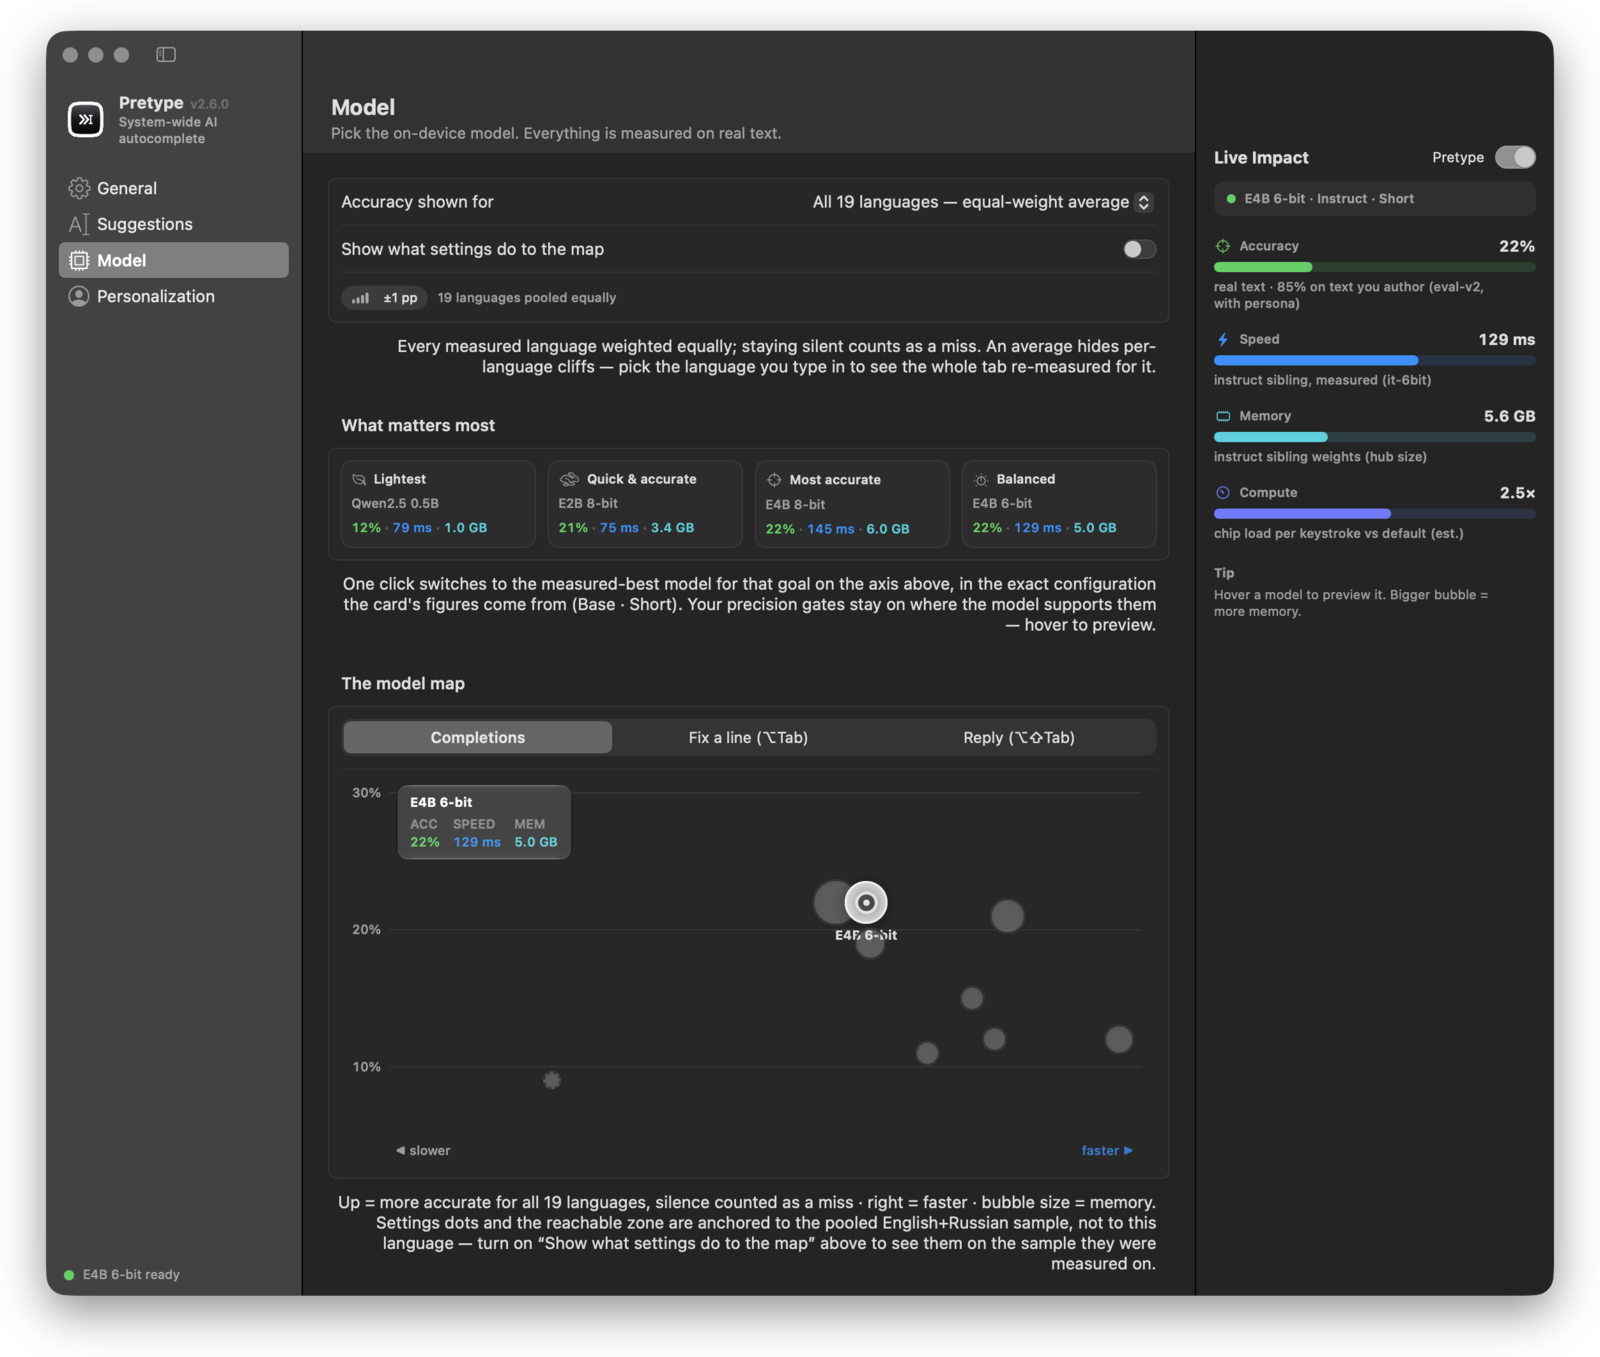
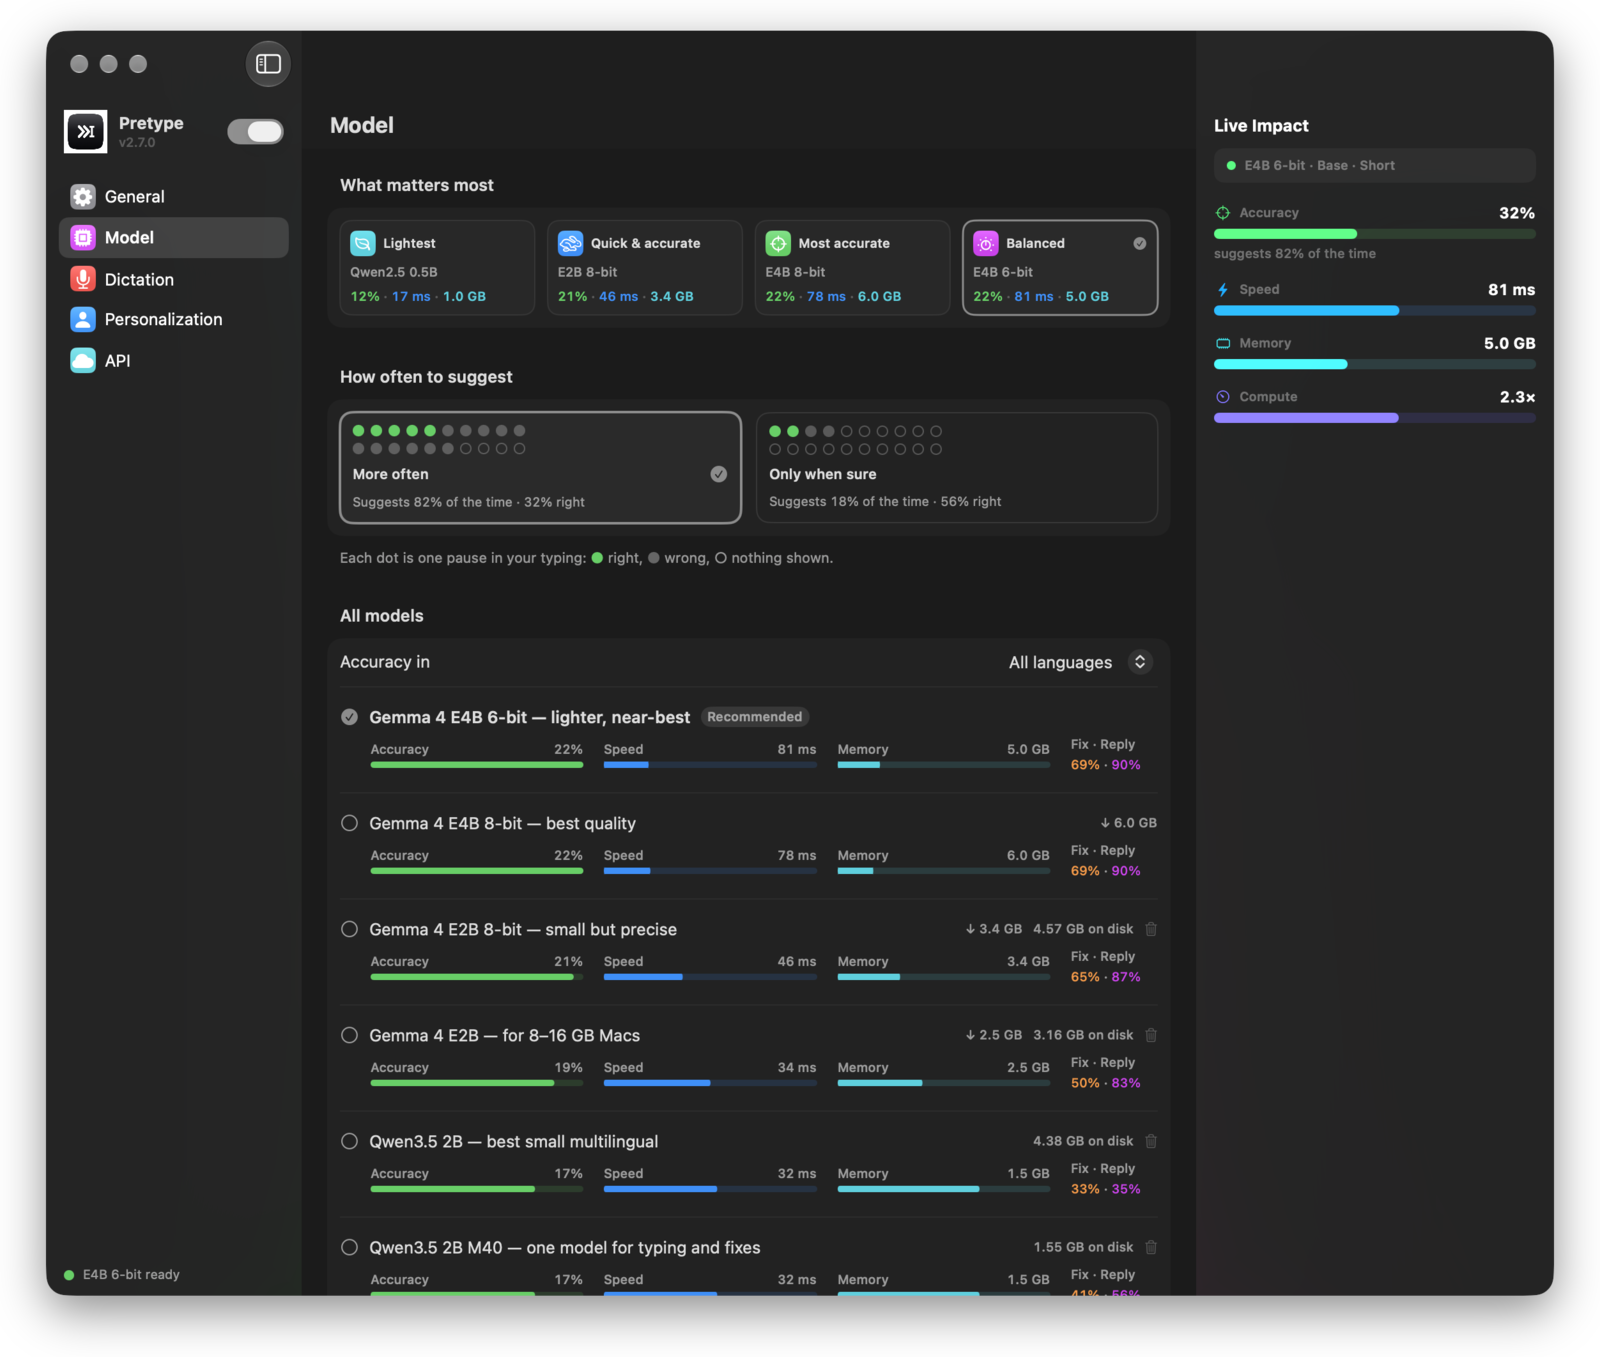
docs: Settings paths and screenshots for the new layout
The docs name the new paths: Settings → Dictation, Model → How often to
suggest, Personalization → Advanced. The screenshots are taken again
from the new layout.

diff --git a/docs/privacy.md b/docs/privacy.md
@@ -28,7 +28,7 @@ Do not trust this page without proof. These files read your input or type text b
 | **Network** | By default, only downloads and one version check. No request contains your text. See [Network requests](#network-requests). |
 | **Accessibility** *(required)* | Pretype uses it to read the focused field, catch the accept key, and type text back. Pretype cannot do this without it. On macOS 27, this permission has the name **Device Control and Data Access**. See [Websites](#websites). |
 | **Screen Recording** *(optional, off)* | Pretype uses it for two things:<br>1. On-screen OCR context, only for the focused window, and only if you turn on screen context.<br>2. The brightness beside the caret. When Pretype shows text at the caret, it captures a strip of the screen to the right of the caret. It reduces the capture to 8 × 4 pixels, and then to one brightness value. It uses this value to select dark or light text. It does not capture its own windows. It keeps no image. This occurs when the permission is granted, also with screen context off.<br>The debug log does not contain OCR text or clipboard contents. An exported log shows a character count in their place, never the text. |
-| **Clipboard** *(optional, off)* | Only if you turn on **Settings → General → Use clipboard context**. When the clipboard changes, Pretype reads its text and keeps the first 600 characters in memory. It adds them to the prompt. See [Clipboard](#clipboard). |
+| **Clipboard** *(optional, off)* | Only if you turn on **Settings → Personalization → Use clipboard context**. When the clipboard changes, Pretype reads its text and keeps the first 600 characters in memory. It adds them to the prompt. See [Clipboard](#clipboard). |
 | **Microphone** *(optional, off)* | Pretype uses it only for dictation, and only while a capture runs. See [Microphone](#microphone). |
 | **Stored locally** | A journal for on-device personalization. See [Journal](#journal). |
 | **Terminals** | Pretype completes text only in the prompt box of an AI agent, such as Claude Code. See [Terminals](#terminals). |
@@ -48,13 +48,13 @@ None of these requests contains your text. The optional API providers are differ
 | Speculative-decoding drafter, ~150 MB | Hugging Face | Gemma tiers only. In the background, when the drafter is missing. One attempt for each launch. | It makes the fix and reply chords faster. |
 | Version check | GitHub Releases API | One time each day. | It sends no data about you. To stop it, go to **Settings → General**. |
 | Speech model for your dictation language | Apple servers | When you turn on dictation, or select a new language. | This is the same system download that the built-in keyboard dictation uses. |
-| Parakeet dictation model, ~610 MB (CoreML) | Hugging Face (`FluidInference/parakeet-ultra-coreml`) | One time, only if you opt in (**Settings → General → Dictation**). | Stored in `~/Library/Application Support/FluidAudio`. An install that opted in before this model replaces its earlier `parakeet-tdt-0.6b-v3-coreml` one time, in the background, on an unmetered network. |
+| Parakeet dictation model, ~610 MB (CoreML) | Hugging Face (`FluidInference/parakeet-ultra-coreml`) | One time, only if you opt in (**Settings → Dictation**). | Stored in `~/Library/Application Support/FluidAudio`. An install that opted in before this model replaces its earlier `parakeet-tdt-0.6b-v3-coreml` one time, in the background, on an unmetered network. |
 | Share a per-app style | GitHub, in your browser | Only when you click the share button. | GitHub's new-file page opens with that one style. The style text is in the URL of the page. Thus GitHub and your browser history see it when the page opens. GitHub gets nothing more until you submit the page. |
 | Refrain download link | GitHub Releases API | Only when you click **Download Refrain** in the menu bar menu. | Pretype asks `api.github.com/repos/nikiomori/Refrain/releases/latest` for the file list of the latest Refrain release. Then your browser opens the zip file of the release and downloads it. The request contains no text and no data about you. Pretype does not install Refrain. You move it to Applications yourself. |
 
 ### Clipboard
 
-The clipboard context is off by default. To turn it on, use **Settings → General → Use clipboard context**.
+The clipboard context is off by default. To turn it on, use **Settings → Personalization → Use clipboard context**.
 
 * Pretype reads the clipboard only when its contents change. It keeps the first 600 characters of the text.
 * Pretype does not read a copy that a password manager marks as concealed or transient.
@@ -109,11 +109,11 @@ Pretype keeps a journal in `~/Library/Application Support/Pretype` for on-device
 
 | | |
 |---|---|
-| **Contents** | Every suggestion that Pretype showed you, and its result. Each entry has the text around the caret at that time: up to 1,000 characters before it and 192 after it. Plus any text that you import with **Settings → Personalization → Import Text…**. |
+| **Contents** | Every suggestion that Pretype showed you, and its result. Each entry has the text around the caret at that time: up to 1,000 characters before it and 192 after it. Plus any text that you import with **Settings → Personalization → Advanced → Import Text…**. |
 | **Format** | Plain text. |
 | **Maximum size** | 50 MB (years of typing). |
 | **Default** | On. |
-| **To delete** | Switch it off in **Settings → Personalization**. This deletes all of the journal, imported text included. |
+| **To delete** | Switch it off in **Settings → Personalization → Advanced**. This deletes all of the journal, imported text included. |
 | **Never in the journal** | OCR screen text. Clipboard text. Dictation writes no journal entries of its own. Dictated text that is already in the field is ordinary surrounding text (see [Microphone](#microphone)). |
 
 ### Terminals

diff --git a/docs/troubleshooting.md b/docs/troubleshooting.md
@@ -66,7 +66,7 @@ Pretype tells you when it stops. The menu item *Disable in …* changes to **Res
 
 ### Dictation does nothing when I hold the key (or press the chord)
 
-First, open **Settings → General → Dictation**. That section shows the name of the blocker.
+First, open **Settings → Dictation**. That pane shows the name of the blocker.
 
 | Symptom | Cause | Remedy |
 |---|---|---|
@@ -75,9 +75,9 @@ First, open **Settings → General → Dictation**. That section shows the name 
 | The language line says that<br>macOS has no model for it | The newer Apple model covers<br>30 locales. Other languages use<br>the system dictation model.<br>Some languages have neither. | Use a language that has a model. The Settings caption shows which model your current language gets. Pretype cannot add a model that macOS does not supply. |
 | The first press shows<br>"getting the dictation<br>model ready…" | macOS downloads the model<br>for that language one time. | Wait approximately one minute, then try again. The download continues after you release the key. |
 | The pill does not appear | Dictation starts on a hold,<br>not on a tap. Another key or<br>a mouse click cancels it. | Hold the key for approximately half a second before you speak. The modifier key on the left or the right side operates. Do not type while you speak. If this occurs frequently, use the hands-free chord (next row). |
-| You cannot speak and use<br>the keyboard at the same time | The hold gesture is strict<br>by design. If not, each<br><kbd>⌥</kbd>-arrow opens the microphone. | Use the hands-free chord: **Settings → General → Dictation → Hands-free chord**, <kbd>⌃⌥D</kbd> by default. Press it one time to start and one time to stop. Typing, clicks and scrolling do not stop it. <kbd>⎋</kbd> discards the capture. A move to a different field stops the capture, because the words go to the field where you started. |
+| You cannot speak and use<br>the keyboard at the same time | The hold gesture is strict<br>by design. If not, each<br><kbd>⌥</kbd>-arrow opens the microphone. | Use the hands-free chord: **Settings → Dictation → Hands-free chord**, <kbd>⌃⌥D</kbd> by default. Press it one time to start and one time to stop. Typing, clicks and scrolling do not stop it. <kbd>⎋</kbd> discards the capture. A move to a different field stops the capture, because the words go to the field where you started. |
 | A hands-free capture<br>stopped by itself | The capture stops after a few<br>seconds of silence. This<br>prevents an open microphone. | Pretype types the words that it heard before the stop. To change the time, or to disable the stop, use **Stop after silence**. Before your first word, the limit is 30 seconds. With the silence stop disabled, a capture stops at 10 minutes. |
-| Music becomes flat and quiet<br>while you dictate | The headset changed to call<br>mode. Bluetooth carries good<br>playback or a two-way call,<br>not both at the same time. | Set **Settings → General → Dictation → Microphone** to *Automatic* (the default). Then Pretype records from the built-in microphone when your earbuds also play your audio. If you selected the headset there, this effect is the cost. The sound becomes normal when the capture stops. |
+| Music becomes flat and quiet<br>while you dictate | The headset changed to call<br>mode. Bluetooth carries good<br>playback or a two-way call,<br>not both at the same time. | Set **Settings → Dictation → Advanced → Microphone** to *Automatic* (the default). Then Pretype records from the built-in microphone when your earbuds also play your audio. If you selected the headset there, this effect is the cost. The sound becomes normal when the capture stops. |
 | The headset stopped<br>during a sentence | The microphone of the<br>capture disconnected. | No action is necessary. The capture continues on the default input. It stops if no microphone is available, or if the input changes more than 3 times in 3 seconds. Then Pretype types the words that it heard. A headset that connects during a capture does not replace the microphone of that capture. |
 | A long dictation has<br>no punctuation | The tidy-up pass is for one<br>short line. Text longer than<br>500 characters skips it. | Pretype types that text exactly as it heard it. To get punctuation, dictate a long passage in a few shorter parts. |
 

diff --git a/README.md b/README.md
@@ -53,7 +53,7 @@ Most autocomplete tools operate in one editor, and they send your text to a serv
 <img src="docs/demo-fix.gif" alt="The user selects a line with typos. After Option-Tab, a panel shows the fix as a word diff. Return replaces the line." width="720" />
 <p><sub><i><b>Rewrite.</b> <kbd>⏎</kbd> accepts it. <kbd>Esc</kbd> keeps your original text.</i></sub></p>
 
-<img src="docs/shot-settings.png" alt="Settings window with a glass sidebar and a Live Impact inspector. The inspector shows the measured accuracy, speed, memory, and compute." width="720" />
+<img src="docs/shot-settings.png" alt="Model pane of the Settings window: one card for each goal, and a Live Impact inspector that shows the measured accuracy, speed, memory, and compute." width="720" />
 <p><sub><i><b>Settings show their cost.</b> Hover over an option to see its effect on accuracy, speed, and memory.</i></sub></p>
 
 <img src="docs/shot-personal.png" alt="Personalization tab with a persona field and style instructions for Mail, Messages, and Notes" width="720" />
@@ -106,7 +106,7 @@ To reject a suggestion, continue to type. You can change the accept key to <kbd>
 * The speech models of macOS transcribe on your Mac. Audio does not go to the disk.
 * A tidy-up pass adds the punctuation and the capital letters.
 * Dictation uses the language of your keyboard layout.
-* **Voice commands.** Select text and dictate an instruction, for example *"make it shorter"* or *"translate to English"*. Enable this in **Settings → General → Dictation**.
+* **Voice commands.** Select text and dictate an instruction, for example *"make it shorter"* or *"translate to English"*. Enable this in **Settings → Dictation → Advanced**.
 * **Send.** Pretype can push <kbd>Return</kbd> after a dictation, for example in a chat. To enable this for an app, select **Press Return after Dictation** in the menu.
 * If the focus changes during a capture, Pretype puts the transcript on the clipboard.
 

diff --git a/docs/ARCHITECTURE.md b/docs/ARCHITECTURE.md
@@ -196,7 +196,7 @@ trim. This diagram shows the checks in base style:
 <img src="diagram-arch-gates.svg" width="400" alt="Base-style checks after the decode. 1, confidence gate, opt-in: is the first-word log-prob at or above tau? If no, show nothing. The gate does not apply when the caret is inside a word. 2, confidence trim: stop at the first weak token and show the text before it. 3, token healing: with the caret inside a word, does the output start with the typed fragment? If no, show nothing. 4, output gates: if they fail, show nothing; if they pass, show the suggestion." />
 </div>
 
-* **Confidence gate.** It is in **Settings → Suggestions**. It is off by
+* **Confidence gate.** It is in **Settings → Model → How often to suggest**. It is off by
   default and operates only in base style. The mean log-probability of the
   first word must be at or above a threshold τ. We calibrate τ for each
   model on one half of the eval set and verify it on the other half. The

diff --git a/docs/models.md b/docs/models.md
@@ -152,7 +152,7 @@ The old model stays on disk. To delete it, go to **Settings → Model**. If you 
 Your keyboard languages continue to set the persona and the per-language menu suggestion. To change the model, use **Settings → Model**. Each entry has its own recommended settings from the eval. The catalog ranks the models again for each of the 19 evaluated languages.
 
 <div align="center">
-<img src="shot-models.png" width="720" alt="Model tab: eval-backed presets and an interactive speed by accuracy map of the catalog" />
+<img src="shot-models.png" width="720" alt="Model tab: one card for each goal, the confidence choice drawn as dots, and every model ranked with accuracy, speed and memory bars" />
 <p><sub><i>The app shows the same data: a speed × accuracy map, presets you can apply with one click, and an accuracy axis for each language.</i></sub></p>
 </div>
 
